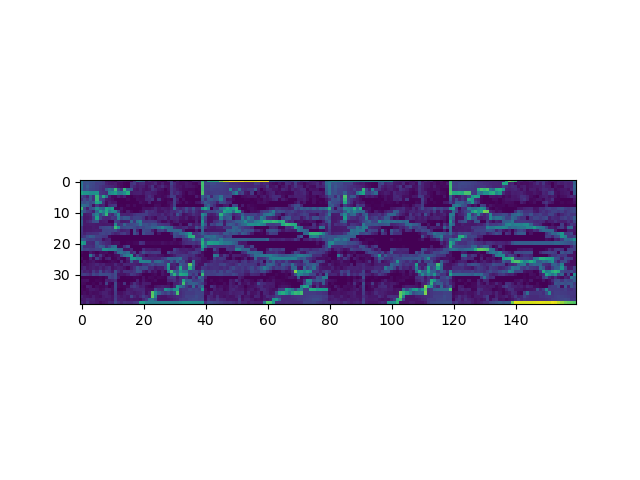
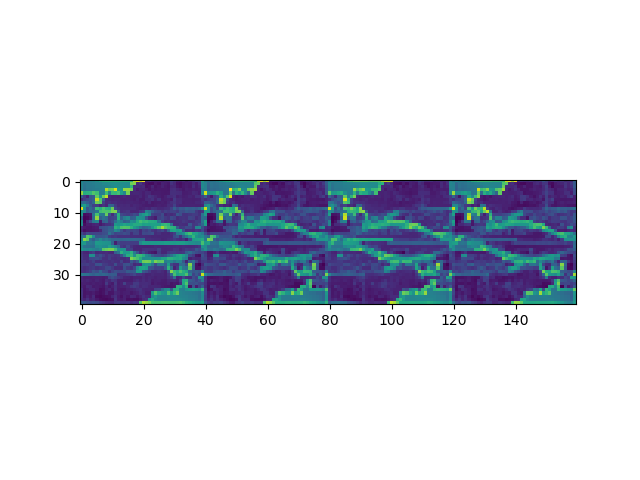
visualize activations

Changed region(s): [[0.125, 0.375, 0.9062, 0.6562], [0.125, 0.625, 0.1562, 0.6562]]

diff --git a/visualize_gcnn.py b/visualize_gcnn.py
@@ -34,11 +34,12 @@ x_r =d2_r(batch[0]).detach().numpy()
 a1, a2, a3, a4 = x1[0].detach().numpy(), x2[0].detach().numpy(), x3[0].detach().numpy(), x4[0].detach().numpy()
 a1_r, a2_r, a3_r, a4_r = x1_r[0].detach().numpy(), x2_r[0].detach().numpy(), x3_r[0].detach().numpy(), x4_r[0].detach().numpy()
 
-a1 = np.hstack([a1[i,0,0] for i in range(a1.shape[0])])
-a1_r = np.hstack([a1_r[i,0,0] for i in range(a1_r.shape[0])])
+a1 = np.hstack([np.mean(a1, axis=1)[i,0] for i in range(a1.shape[0])])
+a1_r = np.hstack([np.mean(a1_r, axis=1)[i,0] for i in range(a1_r.shape[0])])
 plt.imshow(np.vstack([a1, a1_r]))
 plt.savefig("activations_layer_1.png")
 
+"""
 a2 = np.hstack([a2[i,0,0] for i in range(a2.shape[0])])
 a2_r = np.hstack([a2_r[i,0,0] for i in range(a2_r.shape[0])])
 plt.imshow(np.vstack([a2, a2_r]))
@@ -51,3 +52,4 @@ plt.savefig("activations_layer_3.png")
 
 plt.imshow(np.vstack([a4[0,0], a4_r[0,0]]))
 plt.savefig("activations_layer_4_invariant.png")
+"""
